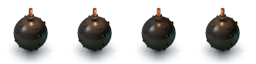
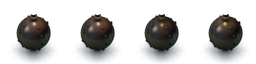
Modified Explosion, Added Fuze-Animation for Bombs

diff --git a/src/slick/extension/ExplosionSystem.java b/src/slick/extension/ExplosionSystem.java
@@ -7,6 +7,8 @@ import game.model.*;
 
 import org.newdawn.slick.GameContainer;
 import org.newdawn.slick.Graphics;
+import org.newdawn.slick.geom.Curve;
+import org.newdawn.slick.geom.Vector2f;
 import org.newdawn.slick.particles.ConfigurableEmitter;
 import org.newdawn.slick.state.StateBasedGame;
 import org.newdawn.slick.particles.ParticleEmitter;
@@ -14,6 +16,7 @@ import org.newdawn.slick.particles.ParticleSystem;
 import org.newdawn.slick.particles.ParticleIO;
 
 import java.lang.reflect.Array;
+import java.util.ArrayList;
 import java.util.LinkedList;
 
 /**
@@ -22,10 +25,12 @@ import java.util.LinkedList;
 public class ExplosionSystem implements IRenderable, IUpdateable {
 
 
-    private static final String explosionConfig =  "res/visuals/particles/explosionSystem.xml";
-    private static final float directionSpread =75;
+    private static final String EXPLOSION_CONFIG =  "res/visuals/particles/explosionSystem.xml";
+    private static final float DIRECTION_SPREAD =20;
+    private static final float END_SPREAD=50;
+    private static final int END_DIVIDER =3;
 
-    private static final int delay=200;
+    private static final int delay=500;
 
     private LinkedList<DelayedExplosion> explosionQue;
     private LinkedList<GameObject> objects;
@@ -35,7 +40,7 @@ public class ExplosionSystem implements IRenderable, IUpdateable {
 
     public ExplosionSystem() {
         try {
-            effectSystem = ParticleIO.loadConfiguredSystem(explosionConfig);
+            effectSystem = ParticleIO.loadConfiguredSystem(EXPLOSION_CONFIG);
             flameEmitter = effectSystem.getEmitter(0);
             smokeEmitter = effectSystem.getEmitter(1);
             sparkEmitter = effectSystem.getEmitter(2);
@@ -78,12 +83,18 @@ public class ExplosionSystem implements IRenderable, IUpdateable {
     }
 
     public void addExplosion(Explosion explosion){
+        ArrayList<Vector2f> endCurve = new ArrayList<Vector2f>();
+        endCurve.add(new Vector2f(0f,0.2f));
+        endCurve.add(new Vector2f(0.3f,0.01f));
+        endCurve.add(new Vector2f(1f,0.0f));
+
+
          for(FlamePoint flamePoint:explosion.getFlamePositions()) {
              ConfigurableEmitter eFlame = ((ConfigurableEmitter)flameEmitter).duplicate(); // copy initial emitter
              ConfigurableEmitter eSmoke = ((ConfigurableEmitter)smokeEmitter).duplicate(); // copy initial emitter
              ConfigurableEmitter eSpark = ((ConfigurableEmitter)sparkEmitter).duplicate(); // copy initial emitter
 
-             ConfigurableEmitter emitters[]={eFlame,eSmoke};
+             ConfigurableEmitter emitters[]={eFlame,eSmoke};//,eSmoke};
 
              int offsetX=0, offsetY=0, emitterWidth=0, emitterHeight=0;
              float spread=0;
@@ -96,39 +107,56 @@ public class ExplosionSystem implements IRenderable, IUpdateable {
 
              offsetX= GameSettings.TILE_WIDTH/2;
              offsetY= GameSettings.TILE_HEIGHT/2;
+             emitterWidth= GameSettings.TILE_WIDTH/2;
+             emitterHeight= GameSettings.TILE_HEIGHT/2;
+             spread=DIRECTION_SPREAD;
 
              switch(flamePoint.getDirection()){
+                 case DOWN_END:
+                     ((ConfigurableEmitter) eFlame).velocity.setCurve(endCurve);
+                     ((ConfigurableEmitter) eSmoke).velocity.setCurve(endCurve);
+                     emitterHeight= GameSettings.TILE_HEIGHT/END_DIVIDER;
+                     offsetY=offsetY-(GameSettings.TILE_HEIGHT-GameSettings.TILE_HEIGHT/END_DIVIDER)/2;
+                     spread=END_SPREAD;
                  case DOWN:
-                     spread=directionSpread;
                      angle=180F;
                      emitterWidth= GameSettings.TILE_WIDTH/3;
-                     emitterHeight= GameSettings.TILE_HEIGHT/2;
                      break;
 
+                 case RIGHT_END:
+                     ((ConfigurableEmitter) eFlame).velocity.setCurve(endCurve);
+                     ((ConfigurableEmitter) eSmoke).velocity.setCurve(endCurve);
+                     emitterWidth= GameSettings.TILE_WIDTH/END_DIVIDER;
+                     offsetX=offsetX-(GameSettings.TILE_WIDTH-GameSettings.TILE_WIDTH/END_DIVIDER)/2;
+                     spread=END_SPREAD;
                  case RIGHT:
-                     emitterWidth= GameSettings.TILE_WIDTH/2;
                      emitterHeight= GameSettings.TILE_HEIGHT/3;
-                     spread=directionSpread;
                      angle=90F;
                      break;
 
+                 case UP_END:
+                     ((ConfigurableEmitter) eFlame).velocity.setCurve(endCurve);
+                     ((ConfigurableEmitter) eSmoke).velocity.setCurve(endCurve);
+                     emitterHeight= GameSettings.TILE_HEIGHT/END_DIVIDER;
+                     offsetY=offsetY+(GameSettings.TILE_HEIGHT-GameSettings.TILE_HEIGHT/END_DIVIDER)/2;
+                     spread=END_SPREAD;
                  case UP:
                      emitterWidth= GameSettings.TILE_WIDTH/3;
-                     emitterHeight= GameSettings.TILE_HEIGHT/2;
-                     spread=directionSpread;
                      angle=0;
                      break;
 
+                 case LEFT_END:
+                     ((ConfigurableEmitter) eFlame).velocity.setCurve(endCurve);
+                     ((ConfigurableEmitter) eSmoke).velocity.setCurve(endCurve);
+                     emitterWidth= GameSettings.TILE_WIDTH/END_DIVIDER;
+                     offsetX=offsetX+(GameSettings.TILE_WIDTH-GameSettings.TILE_WIDTH/END_DIVIDER)/2;
+                     spread=END_SPREAD;
                  case LEFT:
-                     spread=directionSpread;
-                     emitterWidth= GameSettings.TILE_WIDTH/2;
                      emitterHeight= GameSettings.TILE_HEIGHT/3;
                      angle=-90F;
                      break;
 
                  case CENTER:
-                     emitterWidth= GameSettings.TILE_WIDTH/2;
-                     emitterHeight= GameSettings.TILE_HEIGHT/2;
                      spread=360F;
                      angle=0;
                      offsetX= GameSettings.TILE_WIDTH/2;

diff --git a/src/game/model/Bomb.java b/src/game/model/Bomb.java
@@ -9,16 +9,24 @@ import org.newdawn.slick.GameContainer;
 import org.newdawn.slick.Graphics;
 import org.newdawn.slick.SlickException;
 import org.newdawn.slick.SpriteSheet;
+import org.newdawn.slick.particles.ParticleEmitter;
+import org.newdawn.slick.particles.ParticleIO;
+import org.newdawn.slick.particles.ParticleSystem;
 import org.newdawn.slick.state.StateBasedGame;
 
 import javax.swing.event.EventListenerList;
 
 public class Bomb extends GameObject implements IDestroyable
 {
-    private static final String             bombImagePath 		= "res/visuals/bomb/bomb.png";
-    private static final int	            animationInterval	= 40;
+    private static final String             BOMB_IMAGE_PATH     = "res/visuals/bomb/bomb.png";
+    private static final String             BURN_IMAGE_PATH     = "res/visuals/bomb/burn.png";
+    private static final String             EXPLOSION_CONFIG    = "res/visuals/particles/bombSparks.xml";
+    private static final int                ANIMATION_INTERVAL = 40;
+    private static final int                FUZE_POS_Y = 13;
+    private static final int                FUZE_HEIGHT = 13;
     private SpriteSheet			            bombSheet;
-    private Animation			            animationBurn;
+    private Animation                       bombAnimation;
+    private Animation                       fuzeBurn;
     
     private int					            range;
     private int					            timer;
@@ -26,6 +34,11 @@ public class Bomb extends GameObject implements IDestroyable
     private boolean				            exploded;
     private boolean							destroyed;
     private EventListenerList               listeners           = new EventListenerList();
+
+    private ParticleSystem  effectSystem;
+    private ParticleEmitter flameEmitter;
+
+    private float burnDist=FUZE_HEIGHT;
 
     
     public Bomb(int tileX, int tileY, int bombRange, int bombTimer)
@@ -37,6 +50,7 @@ public class Bomb extends GameObject implements IDestroyable
         this.exploded	            = false;
         this.destroyed				= false;
         loadAnimation();
+        loadParticleSystem();
     }
 
     public int getRange()
@@ -69,7 +83,9 @@ public class Bomb extends GameObject implements IDestroyable
     @Override
     public void render(GameContainer container, StateBasedGame game, Graphics g)
     {
-        animationBurn.draw(tileX * GameSettings.TILE_HEIGHT, tileY * GameSettings.TILE_WIDTH);
+        bombAnimation.draw(tileX * GameSettings.TILE_HEIGHT, tileY * GameSettings.TILE_WIDTH);
+        fuzeBurn.draw(tileX * GameSettings.TILE_HEIGHT + GameSettings.TILE_HEIGHT / 2, tileY * GameSettings.TILE_WIDTH+GameSettings.TILE_HEIGHT/2-FUZE_POS_Y-burnDist,3,burnDist);
+        effectSystem.render();
     }
 
     @Override
@@ -79,8 +95,16 @@ public class Bomb extends GameObject implements IDestroyable
     	{
     		this.setExploded();
     	}
-    	
-    	time += delta;
+
+
+
+        float timeLeft = timer-time;
+        burnDist=FUZE_HEIGHT * timeLeft/timer;
+
+        effectSystem.setPosition(tileX * GameSettings.TILE_HEIGHT+GameSettings.TILE_HEIGHT/2, tileY * GameSettings.TILE_WIDTH+GameSettings.TILE_HEIGHT/2-FUZE_POS_Y-burnDist);
+        effectSystem.update(delta);
+
+        time += delta;
     }
     
     public void setExploded()
@@ -104,13 +128,26 @@ public class Bomb extends GameObject implements IDestroyable
     {
         try
         {
-            bombSheet		= new SpriteSheet(bombImagePath, 64, 64);
-            animationBurn	= new Animation(bombSheet, animationInterval);
+            bombSheet		    = new SpriteSheet(BOMB_IMAGE_PATH, 64, 64);
+            bombAnimation       = new Animation(bombSheet, ANIMATION_INTERVAL);
+            SpriteSheet sheet	= new SpriteSheet(BURN_IMAGE_PATH, 3, 11);
+            fuzeBurn            = new Animation(sheet, ANIMATION_INTERVAL);
         }
         catch (SlickException e)
         {
             //TODO
         }
+    }
+
+    private void loadParticleSystem(){
+        try {
+            effectSystem = ParticleIO.loadConfiguredSystem(EXPLOSION_CONFIG);
+            flameEmitter = effectSystem.getEmitter(0);
+        }catch (Exception e){
+            e.printStackTrace();
+            System.exit(-1);
+        }
+        effectSystem.setPosition(tileX * GameSettings.TILE_HEIGHT+GameSettings.TILE_HEIGHT/2, tileY * GameSettings.TILE_WIDTH+GameSettings.TILE_HEIGHT/2-FUZE_POS_Y-burnDist);
     }
 
     public void addListener(ExplosionListener listener)

diff --git a/src/game/model/Explosion.java b/src/game/model/Explosion.java
@@ -1,12 +1,10 @@
 package game.model;
 
+import game.config.GameSettings;
 import game.interfaces.IRenderable;
 import game.interfaces.IUpdateable;
 
-import org.newdawn.slick.GameContainer;
-import org.newdawn.slick.Graphics;
-import org.newdawn.slick.SlickException;
-import org.newdawn.slick.Sound;
+import org.newdawn.slick.*;
 import org.newdawn.slick.state.StateBasedGame;
 
 import slick.extension.TiledMapWrapper;
@@ -72,18 +70,31 @@ public class Explosion extends GameObject implements IUpdateable, IRenderable
     private boolean handleFlamePosition (boolean blocked, FlamePoint p, ArrayList<FlamePoint> explodedTiles)
     {
         if (!blocked)
-        {
-            // check if point should be added
+        {   // check if point should be added
             if (!this.wrapper.isSolid(p.x, p.y))
             {
                 explodedTiles.add(p);
+            }else{
+                //Make shure the last explosion before the solid is marked as _END
+                for(int i=explodedTiles.size()-1;i>=0;i--){
+                    FlamePoint flame = explodedTiles.get(i);
+
+                    if(flame.getDirection()==p.getDirection()){
+                        flame.setDirection(flame.makeDirectionEnd(p.getDirection()));
+                        break;
+                    }
+                }
             }
 
             // check if flame ray should be blocked in this direction.
-            if (this.wrapper.isSolid(p.x, p.y) || this.wrapper.isDestroyable(p.x, p.y))
+            if (this.wrapper.isSolid(p.x, p.y) || this.wrapper.isDestroyable(p.x, p.y) || p.getDistanceFromCenter()==this.range)
             {
+                //Make an End Mark in this direction
+                p.setDirection(p.makeDirectionEnd(p.getDirection()));
                 blocked = true;
             }
+
+
         }
 
         return blocked;
@@ -95,8 +106,14 @@ public class Explosion extends GameObject implements IUpdateable, IRenderable
 	public void render(GameContainer container, StateBasedGame game, Graphics g)
     {
         //Rendering in ExplosionSystem in BombermanMap
-        /*for (FlamePoint p : this.flamePositions)
+        /*
+        for (FlamePoint p : this.flamePositions)
         {
+            if(p.getDirection()==p.makeDirectionEnd(p.getDirection()))
+                g.setColor(Color.red);
+            else
+                g.setColor(Color.green);
+
             g.drawRect(p.x * GameSettings.TILE_WIDTH, p.y * GameSettings.TILE_HEIGHT, GameSettings.TILE_WIDTH, GameSettings.TILE_HEIGHT);
         }*/
 	}

diff --git a/src/game/model/Player.java b/src/game/model/Player.java
@@ -178,12 +178,12 @@ public class Player extends GameObject implements IDestroyable, ExplosionListene
         
         if (shielded) {
 //            //creates an filter for fading the shields alpha with shieldtime
-//            float ramp = shieldTimer/10000f;
-//            Color alphaFilter = new Color(ramp*3f,ramp*2f ,ramp, ramp);
+             float ramp = shieldTimer/10000f;
+            Color alphaFilter = new Color(ramp*3f,ramp*2f ,ramp, ramp);
 //            g.setDrawMode(Graphics.MODE_SCREEN);
-//        	  animation_shielded.draw(x, y, alphaFilter);
+        	  animation_shielded.draw(x, y, alphaFilter);
 //            g.setDrawMode(Graphics.MODE_NORMAL);
-        	if (shieldTimer > 3_000
+        	/*if (shieldTimer > 3_000
         			|| (shieldTimer <= 2_500 && shieldTimer >= 2_000)
         			|| (shieldTimer <= 1_500 && shieldTimer >= 1_000)
         			|| (shieldTimer <= 900 && shieldTimer >= 800)
@@ -192,7 +192,7 @@ public class Player extends GameObject implements IDestroyable, ExplosionListene
         			|| (shieldTimer <= 300 && shieldTimer >= 200)
         			|| (shieldTimer <= 100 && shieldTimer >= 0)) {
         		animation_shielded.draw(x, y);
-        	}
+        	}*/
         }
 
             

diff --git a/src/game/model/FlamePoint.java b/src/game/model/FlamePoint.java
@@ -28,4 +28,15 @@ public class FlamePoint extends Point {
     public void setDistanceFromCenter(int distanceFromCenter) {
         this.distanceFromCenter = distanceFromCenter;
     }
+
+    public FlameDirection makeDirectionEnd(FlameDirection d){
+        switch(d){
+            case LEFT:      return FlameDirection.LEFT_END;
+            case UP:        return FlameDirection.UP_END;
+            case DOWN:      return FlameDirection.DOWN_END;
+            case RIGHT:     return FlameDirection.RIGHT_END;
+            case CENTER:    return FlameDirection.CENTER;
+            default:        return d;
+        }
+    }
 }

diff --git a/src/game/model/FlameDirection.java b/src/game/model/FlameDirection.java
@@ -6,6 +6,10 @@ public enum FlameDirection {
     DOWN,
     LEFT,
     RIGHT,
-    CENTER
+    CENTER,
+    UP_END,
+    DOWN_END,
+    LEFT_END,
+    RIGHT_END;
 
 }
